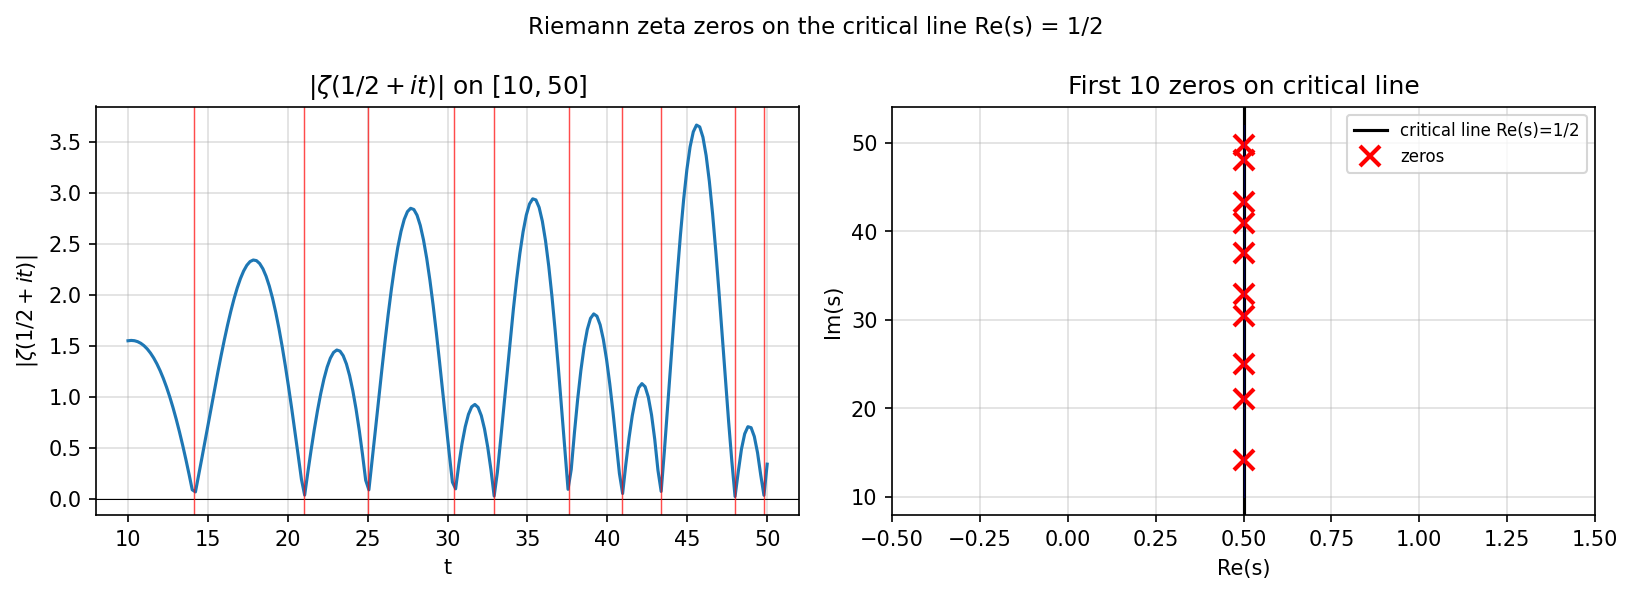
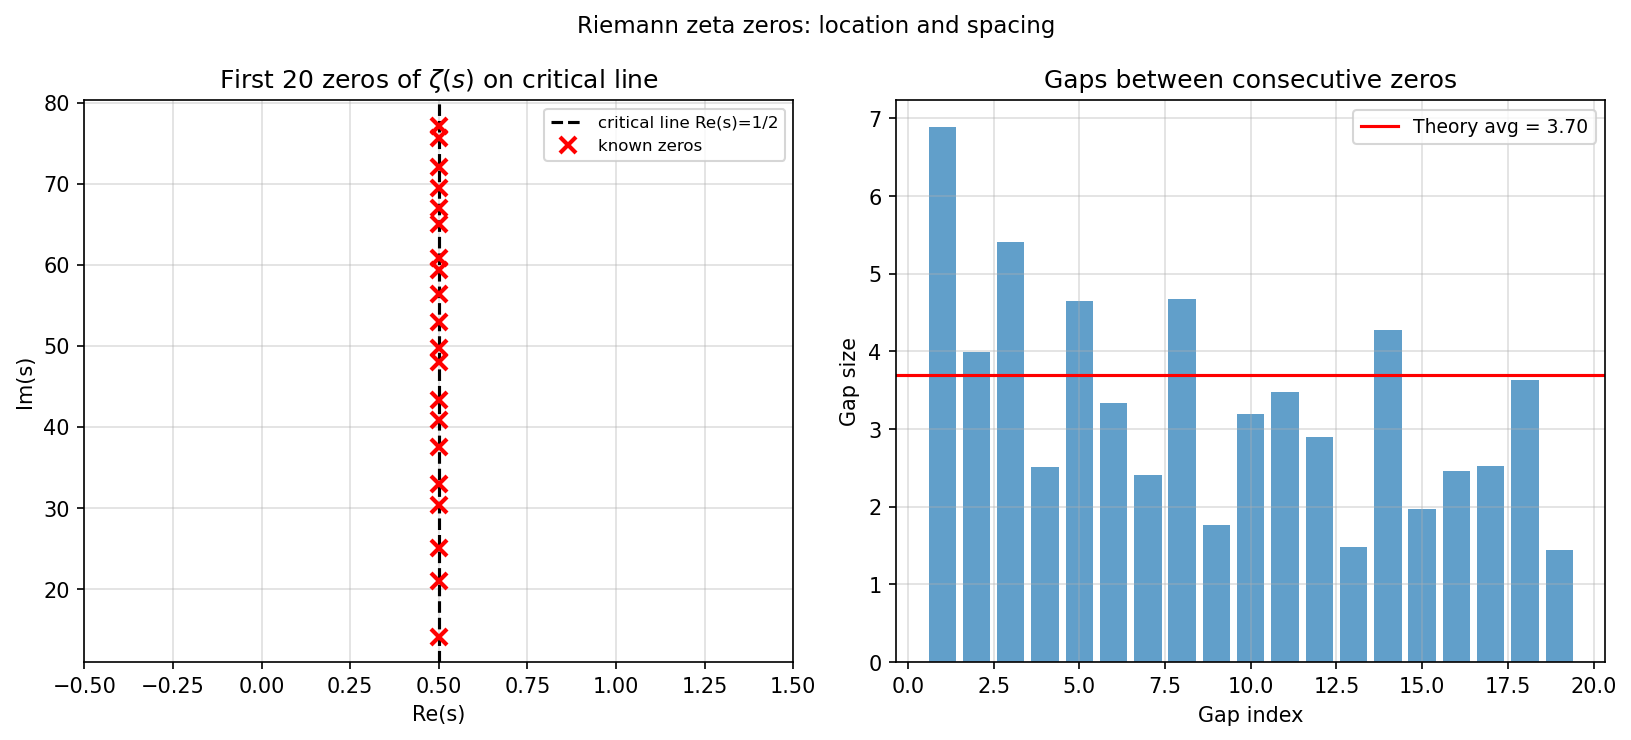
Fix MathJax: remove polyfill.io, add proper config for $...$ delimiters, fix duplicate matplotlib in pixi.toml

Changed region(s): [[0.0, 0.0911, 1.0, 1.0], [0.3066, 0.0, 0.6744, 0.0607]]

diff --git a/docs/javascripts/mathjax.js b/docs/javascripts/mathjax.js
@@ -1,0 +1,16 @@
+window.MathJax = {
+  tex: {
+    inlineMath: [["\\(", "\\)"], ["$", "$"]],
+    displayMath: [["\\[", "\\]"], ["$$", "$$"]],
+    processEscapes: true,
+    processEnvironments: true
+  },
+  options: {
+    ignoreHtmlClass: ".*|",
+    processHtmlClass: "arithmatex"
+  }
+};
+
+document$.subscribe(() => {
+  MathJax.typesetPromise()
+})